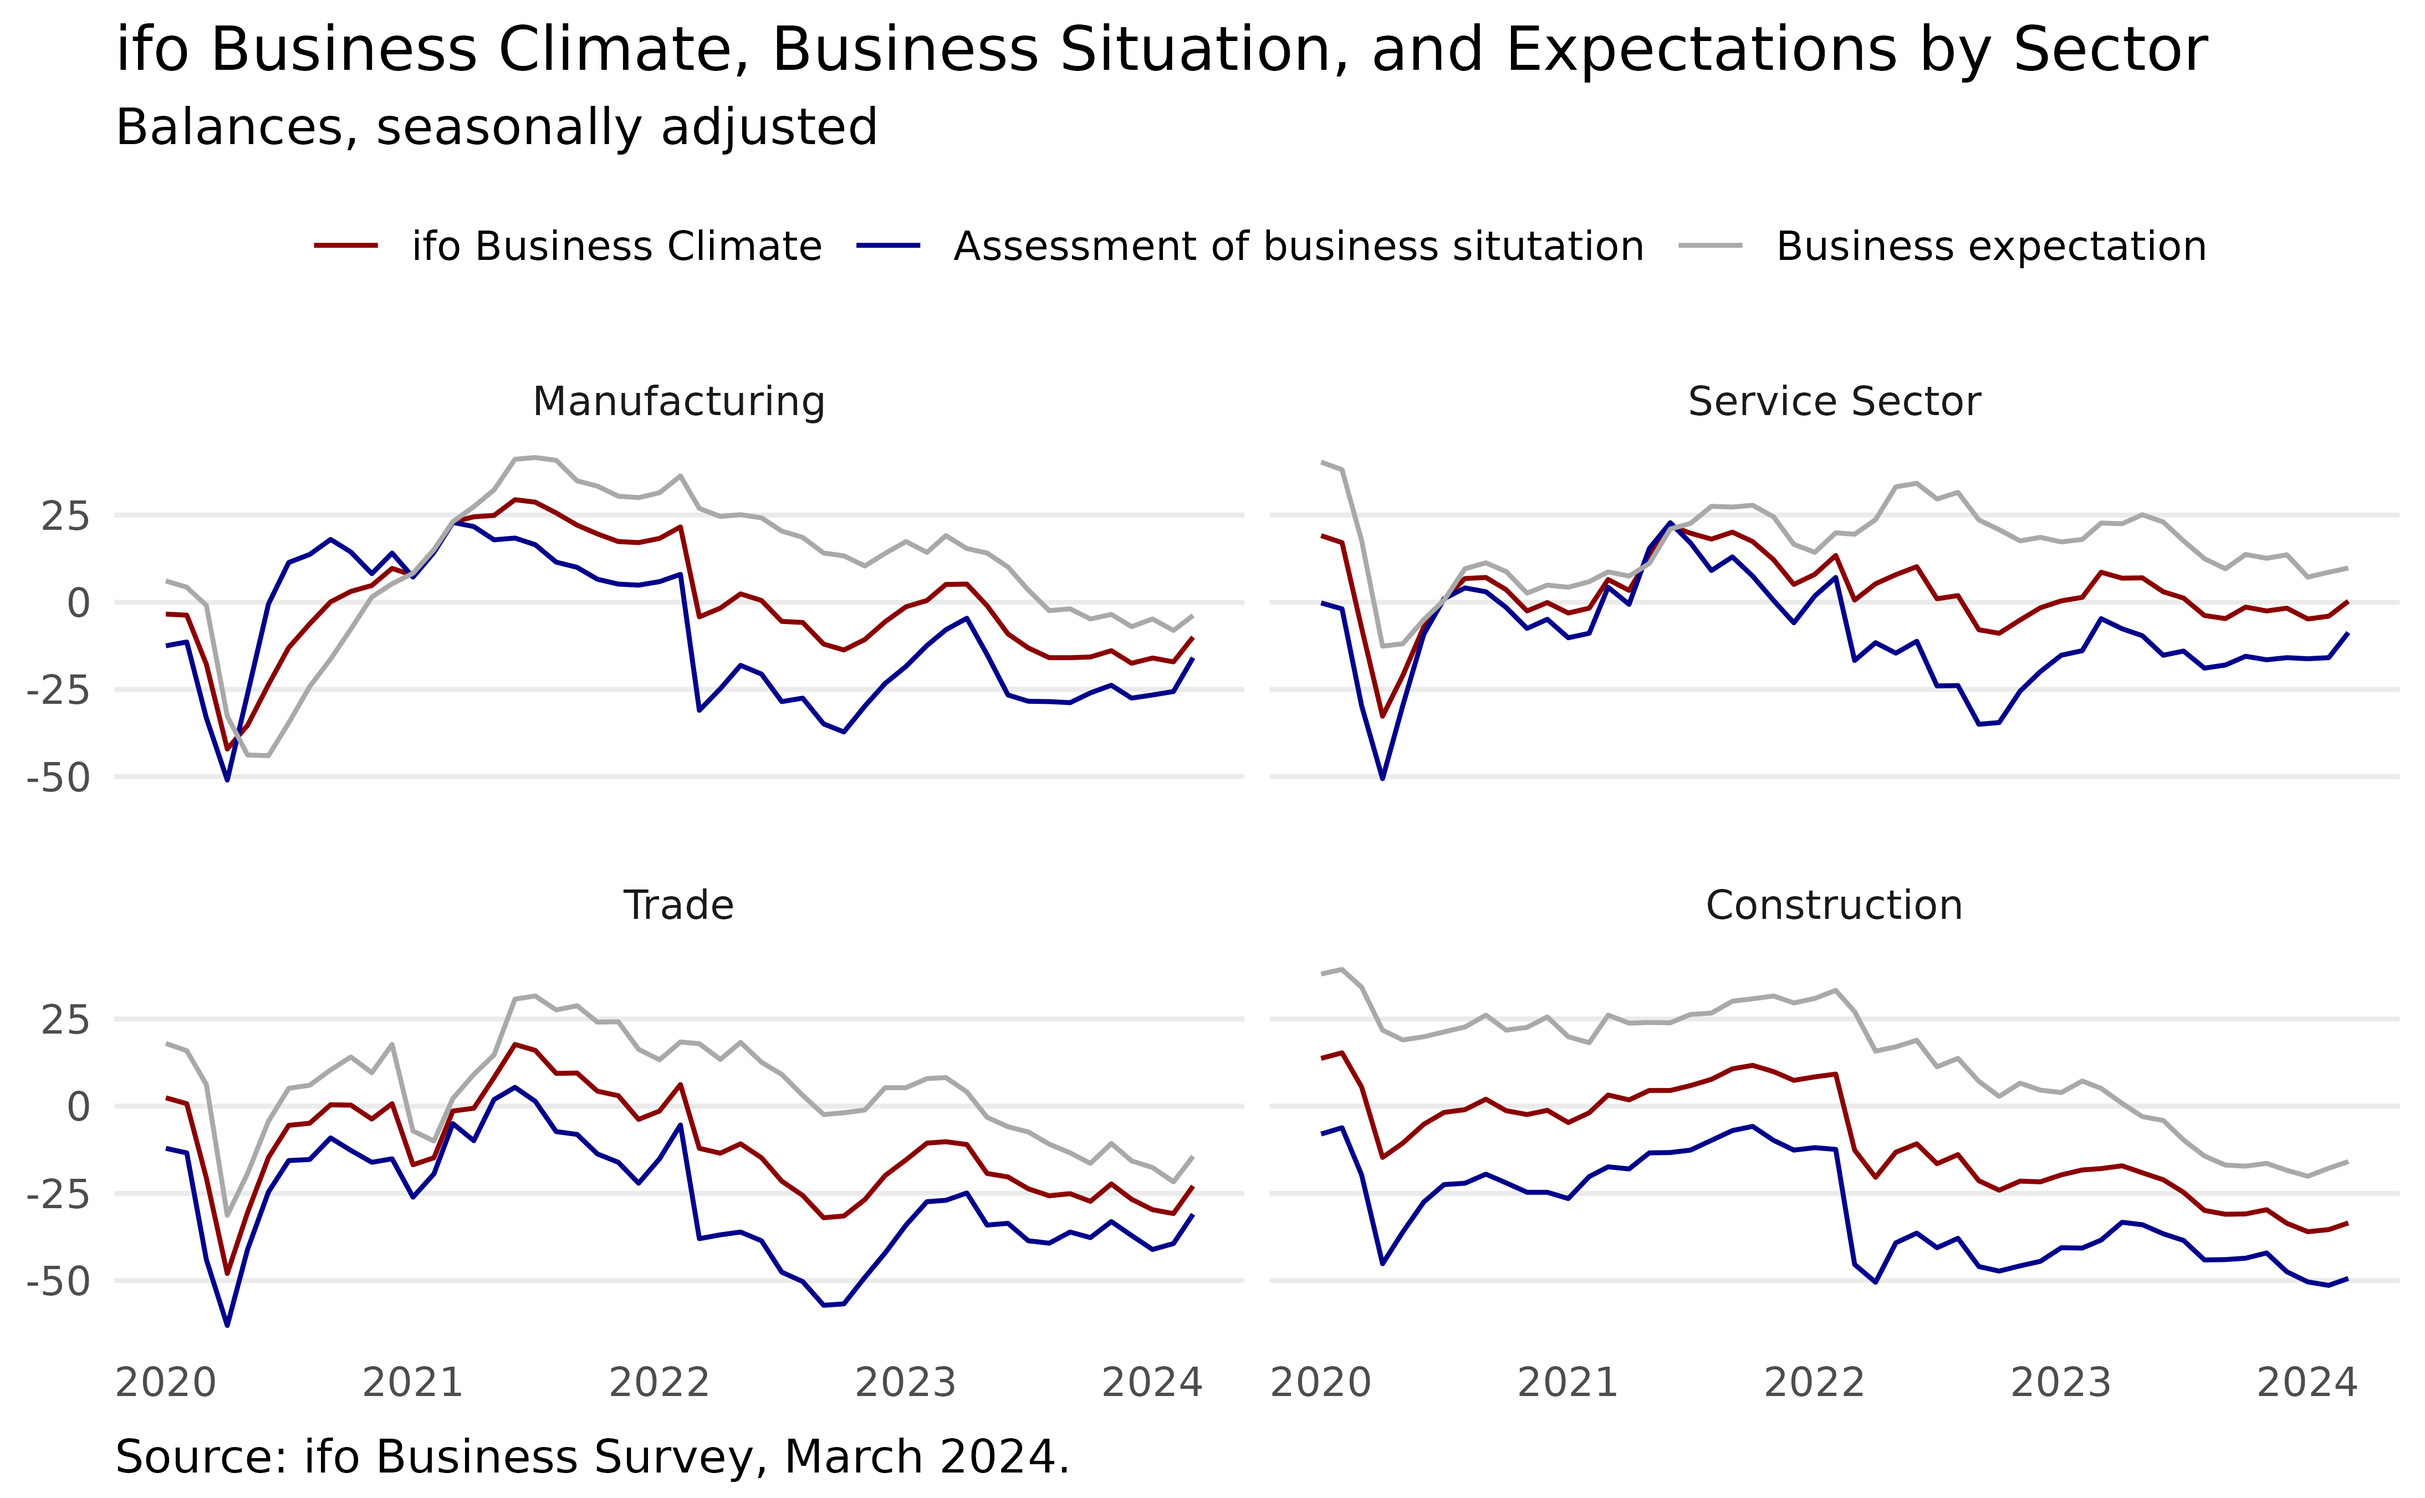
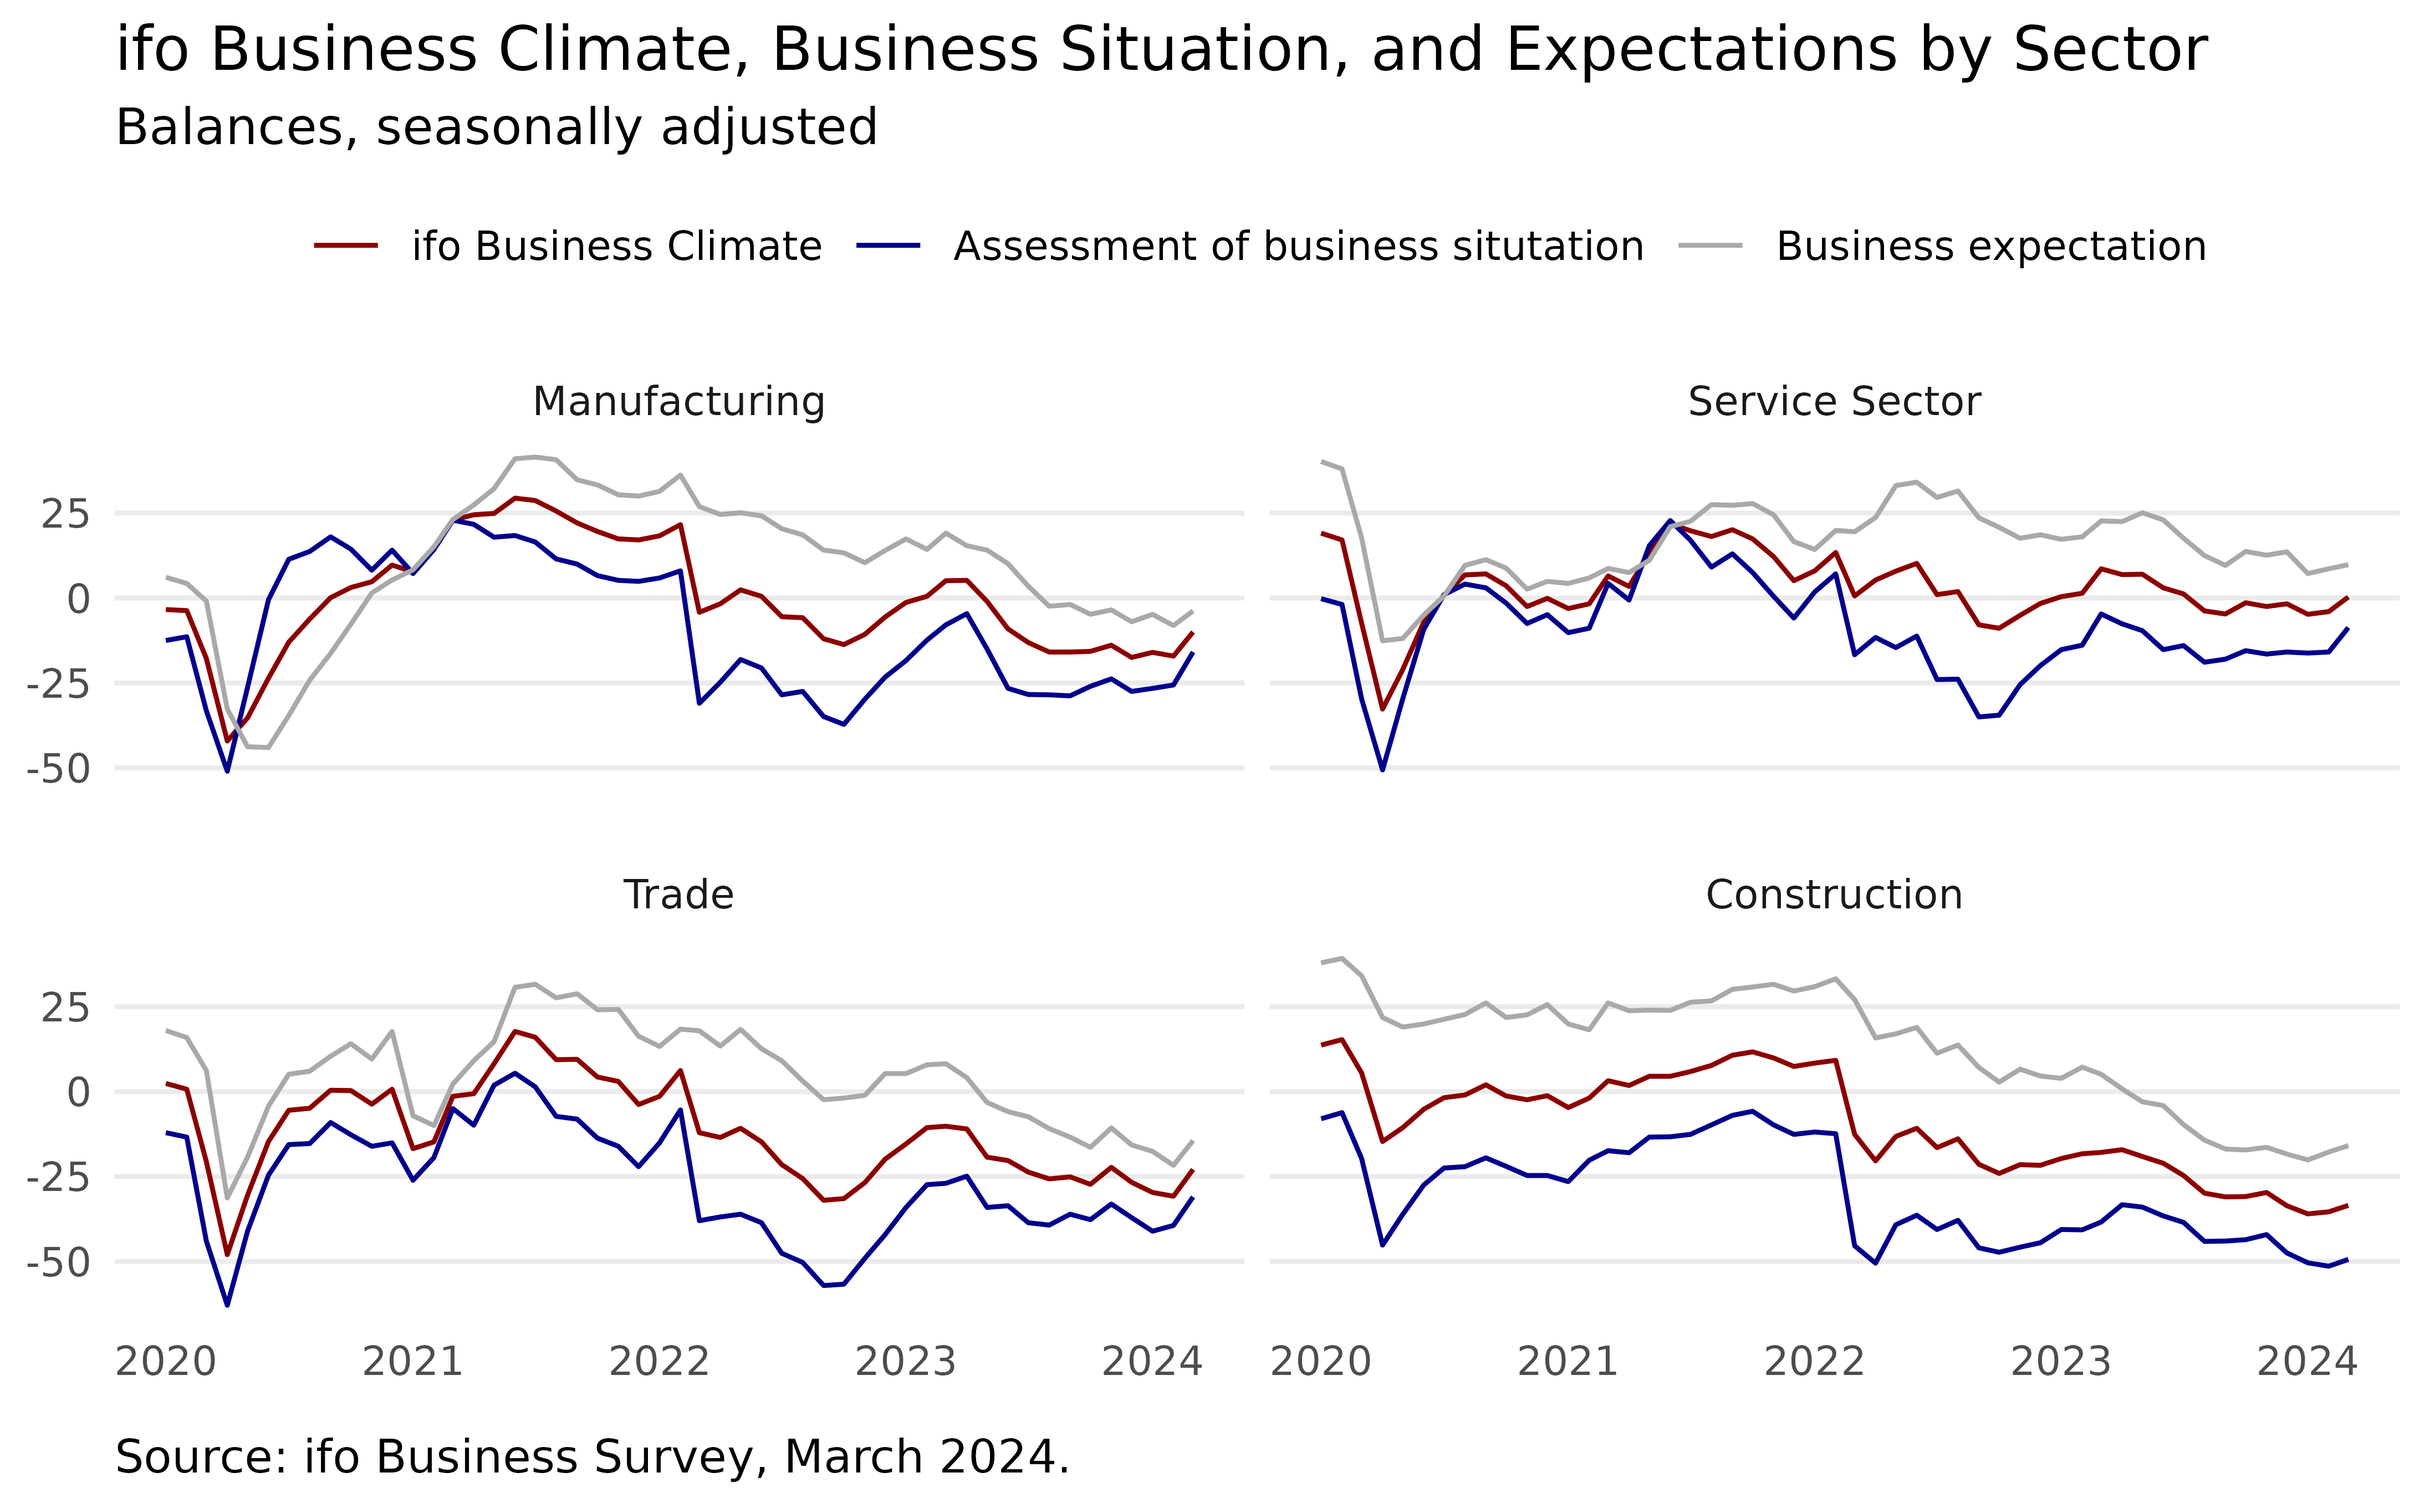
Deploying to gh-pages from @ m-muecke/ifo@7520c747076bfa2c6c7f68a9a9a97254fdfaa711 🚀

diff --git a/articles/publication.html b/articles/publication.html
@@ -100,7 +100,9 @@
 <span>  <span class="fu"><a href="https://ggplot2.tidyverse.org/reference/theme.html" class="external-link">theme</a></span><span class="op">(</span></span>
 <span>    legend.title <span class="op">=</span> <span class="fu"><a href="https://ggplot2.tidyverse.org/reference/element.html" class="external-link">element_blank</a></span><span class="op">(</span><span class="op">)</span>,</span>
 <span>    legend.position <span class="op">=</span> <span class="st">"top"</span>,</span>
-<span>    plot.caption <span class="op">=</span> <span class="fu"><a href="https://ggplot2.tidyverse.org/reference/element.html" class="external-link">element_text</a></span><span class="op">(</span>hjust <span class="op">=</span> <span class="fl">0</span>, vjust <span class="op">=</span> <span class="fl">0</span>, size <span class="op">=</span> <span class="fl">10</span><span class="op">)</span>,</span>
+<span>    plot.caption <span class="op">=</span> <span class="fu"><a href="https://ggplot2.tidyverse.org/reference/element.html" class="external-link">element_text</a></span><span class="op">(</span></span>
+<span>      hjust <span class="op">=</span> <span class="fl">0</span>, vjust <span class="op">=</span> <span class="fl">0</span>, size <span class="op">=</span> <span class="fl">10</span>, margin <span class="op">=</span> <span class="fu"><a href="https://ggplot2.tidyverse.org/reference/element.html" class="external-link">margin</a></span><span class="op">(</span><span class="fl">10</span>, <span class="fl">0</span>, <span class="fl">0</span>, <span class="fl">0</span><span class="op">)</span></span>
+<span>    <span class="op">)</span>,</span>
 <span>    panel.grid.major.x <span class="op">=</span> <span class="fu"><a href="https://ggplot2.tidyverse.org/reference/element.html" class="external-link">element_blank</a></span><span class="op">(</span><span class="op">)</span>,</span>
 <span>    panel.grid.minor.x <span class="op">=</span> <span class="fu"><a href="https://ggplot2.tidyverse.org/reference/element.html" class="external-link">element_blank</a></span><span class="op">(</span><span class="op">)</span>,</span>
 <span>    panel.grid.minor.y <span class="op">=</span> <span class="fu"><a href="https://ggplot2.tidyverse.org/reference/element.html" class="external-link">element_blank</a></span><span class="op">(</span><span class="op">)</span></span>
@@ -156,7 +158,9 @@
 <span>  <span class="fu"><a href="https://ggplot2.tidyverse.org/reference/theme.html" class="external-link">theme</a></span><span class="op">(</span></span>
 <span>    legend.title <span class="op">=</span> <span class="fu"><a href="https://ggplot2.tidyverse.org/reference/element.html" class="external-link">element_blank</a></span><span class="op">(</span><span class="op">)</span>,</span>
 <span>    legend.position <span class="op">=</span> <span class="st">"top"</span>,</span>
-<span>    plot.caption <span class="op">=</span> <span class="fu"><a href="https://ggplot2.tidyverse.org/reference/element.html" class="external-link">element_text</a></span><span class="op">(</span>hjust <span class="op">=</span> <span class="fl">0</span>, vjust <span class="op">=</span> <span class="fl">0</span>, size <span class="op">=</span> <span class="fl">10</span><span class="op">)</span>,</span>
+<span>    plot.caption <span class="op">=</span> <span class="fu"><a href="https://ggplot2.tidyverse.org/reference/element.html" class="external-link">element_text</a></span><span class="op">(</span></span>
+<span>      hjust <span class="op">=</span> <span class="fl">0</span>, vjust <span class="op">=</span> <span class="fl">0</span>, size <span class="op">=</span> <span class="fl">10</span>, margin <span class="op">=</span> <span class="fu"><a href="https://ggplot2.tidyverse.org/reference/element.html" class="external-link">margin</a></span><span class="op">(</span><span class="fl">10</span>, <span class="fl">0</span>, <span class="fl">0</span>, <span class="fl">0</span><span class="op">)</span></span>
+<span>    <span class="op">)</span>,</span>
 <span>    panel.grid.major.x <span class="op">=</span> <span class="fu"><a href="https://ggplot2.tidyverse.org/reference/element.html" class="external-link">element_blank</a></span><span class="op">(</span><span class="op">)</span>,</span>
 <span>    panel.grid.minor.x <span class="op">=</span> <span class="fu"><a href="https://ggplot2.tidyverse.org/reference/element.html" class="external-link">element_blank</a></span><span class="op">(</span><span class="op">)</span>,</span>
 <span>    panel.grid.minor.y <span class="op">=</span> <span class="fu"><a href="https://ggplot2.tidyverse.org/reference/element.html" class="external-link">element_blank</a></span><span class="op">(</span><span class="op">)</span></span>

diff --git a/index.html b/index.html
@@ -119,7 +119,9 @@
 <span>  <span class="fu"><a href="https://ggplot2.tidyverse.org/reference/theme.html" class="external-link">theme</a></span><span class="op">(</span></span>
 <span>    legend.title <span class="op">=</span> <span class="fu"><a href="https://ggplot2.tidyverse.org/reference/element.html" class="external-link">element_blank</a></span><span class="op">(</span><span class="op">)</span>,</span>
 <span>    legend.position <span class="op">=</span> <span class="st">"top"</span>,</span>
-<span>    plot.caption <span class="op">=</span> <span class="fu"><a href="https://ggplot2.tidyverse.org/reference/element.html" class="external-link">element_text</a></span><span class="op">(</span>hjust <span class="op">=</span> <span class="fl">0</span>, vjust <span class="op">=</span> <span class="fl">0</span>, size <span class="op">=</span> <span class="fl">10</span><span class="op">)</span>,</span>
+<span>    plot.caption <span class="op">=</span> <span class="fu"><a href="https://ggplot2.tidyverse.org/reference/element.html" class="external-link">element_text</a></span><span class="op">(</span></span>
+<span>      hjust <span class="op">=</span> <span class="fl">0</span>, vjust <span class="op">=</span> <span class="fl">0</span>, size <span class="op">=</span> <span class="fl">10</span>, margin <span class="op">=</span> <span class="fu"><a href="https://ggplot2.tidyverse.org/reference/element.html" class="external-link">margin</a></span><span class="op">(</span><span class="fl">10</span>, <span class="fl">0</span>, <span class="fl">0</span>, <span class="fl">0</span><span class="op">)</span></span>
+<span>    <span class="op">)</span>,</span>
 <span>    panel.grid.major.x <span class="op">=</span> <span class="fu"><a href="https://ggplot2.tidyverse.org/reference/element.html" class="external-link">element_blank</a></span><span class="op">(</span><span class="op">)</span>,</span>
 <span>    panel.grid.minor.x <span class="op">=</span> <span class="fu"><a href="https://ggplot2.tidyverse.org/reference/element.html" class="external-link">element_blank</a></span><span class="op">(</span><span class="op">)</span>,</span>
 <span>    panel.grid.minor.y <span class="op">=</span> <span class="fu"><a href="https://ggplot2.tidyverse.org/reference/element.html" class="external-link">element_blank</a></span><span class="op">(</span><span class="op">)</span></span>
